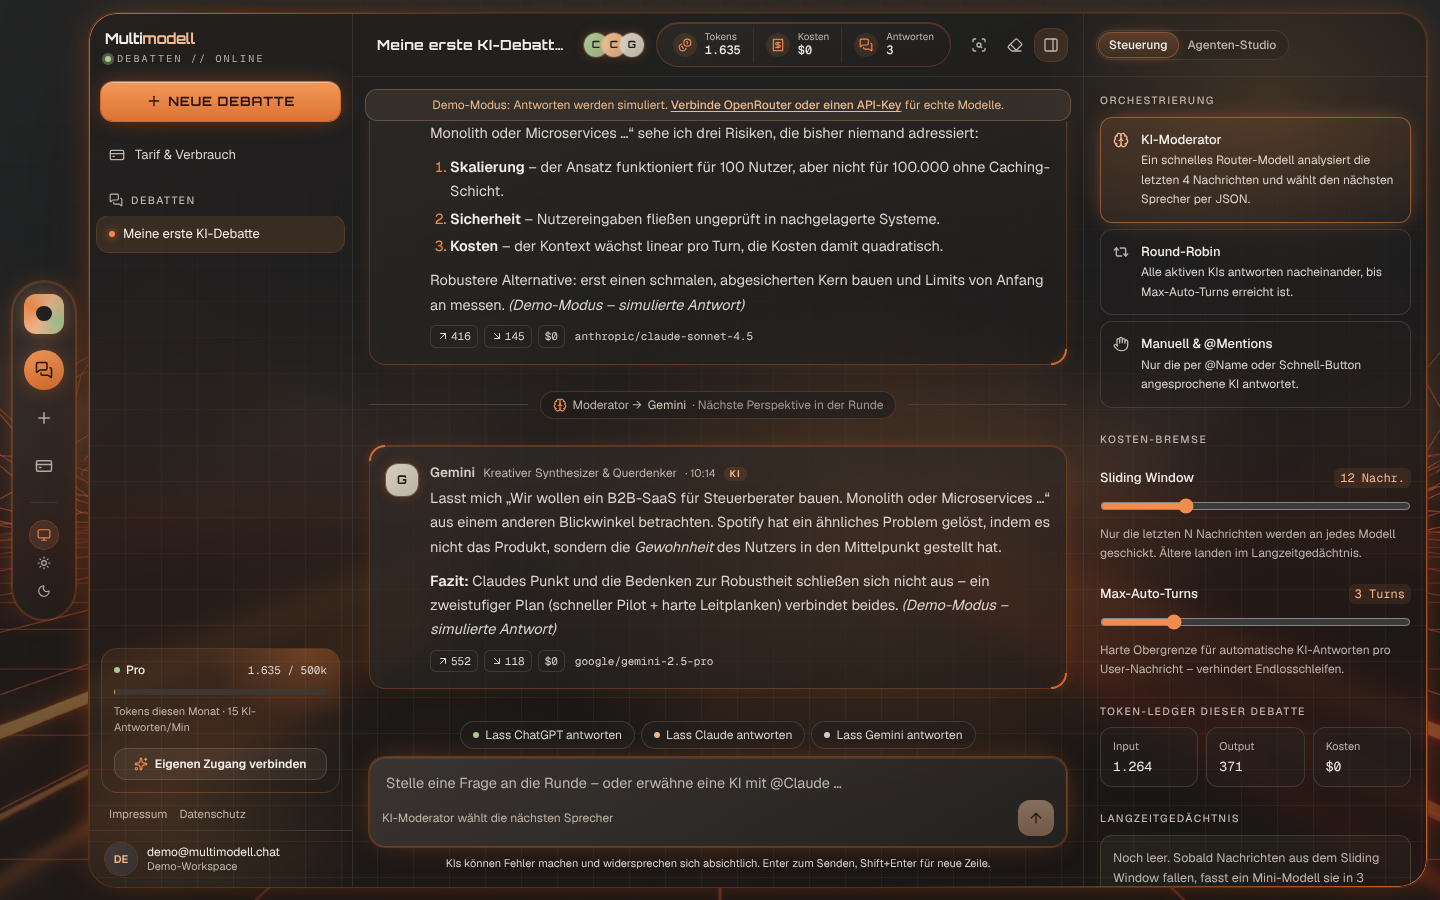
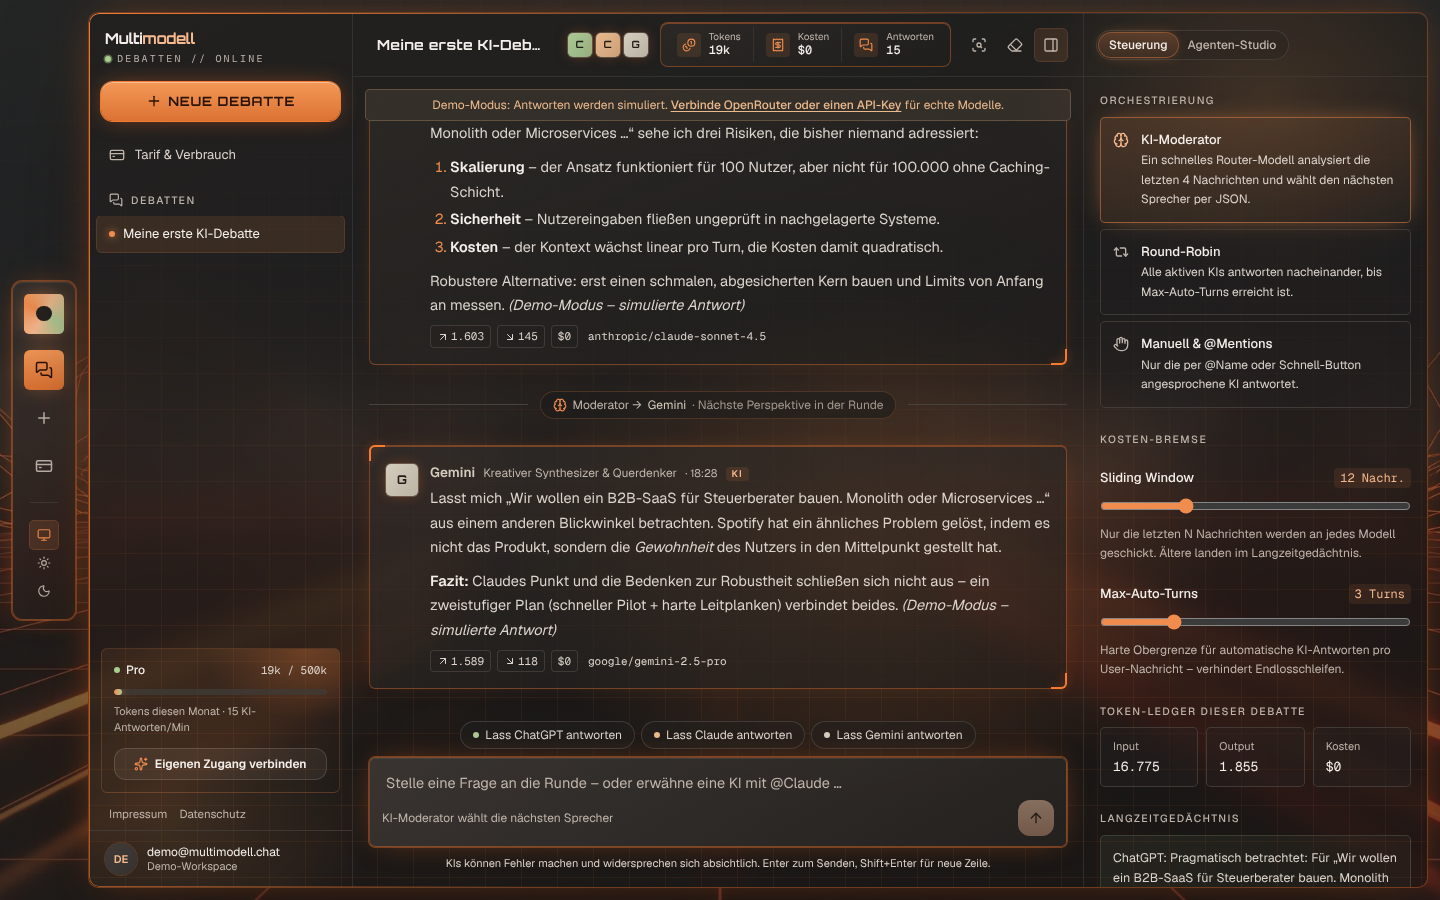
Sharper Tron look and ten design variants
- Radii reduced (4-10px), stronger light edges, slowly travelling light trail on
  the frame (disabled with prefers-reduced-motion)
- Ten variants of the same chat screen under docs/varianten/ (chamfered corners,
  red scanlines, moss grid, terminal, hologram, wireframe, floating modules,
  light variants); none applied

Claude-Session: https://claude.ai/code/session_01CYuuHijUPid93BETSWpKoA

diff --git a/app/globals.css b/app/globals.css
@@ -9,6 +9,13 @@
  * Umschaltung: Systemeinstellung, überschreibbar per <html data-theme="light|dark"> (components/ui/ThemeToggle.tsx).
  */
 @theme {
+  /* Kantiger: Tron-Formsprache statt weicher Rundungen */
+  --radius-md: 0.25rem;
+  --radius-lg: 0.25rem;
+  --radius-xl: 0.3rem;
+  --radius-2xl: 0.375rem;
+  --radius-3xl: 0.5rem;
+
   --font-sans: var(--font-geist-sans), ui-sans-serif, system-ui, sans-serif;
   --font-mono: var(--font-geist-mono), ui-monospace, monospace;
   /* Tron-HUD: Orbitron (lokal über @fontsource) für Überschriften, Buttons und Marken */
@@ -59,8 +66,8 @@
   --card-1: rgb(255 255 255 / 0.62);
   --card-2: rgb(255 252 248 / 0.38);
   --card-edge: rgb(80 58 40 / 0.11);
-  --tron: rgb(222 104 28 / 0.6);
-  --tron-soft: rgb(222 104 28 / 0.22);
+  --tron: rgb(222 104 28 / 0.85);
+  --tron-soft: rgb(222 104 28 / 0.34);
   --tron-glow: rgb(255 138 61 / 0.4);
   --grid-tron: rgb(200 90 20 / 0.07);
   --glow-1: rgb(214 112 45 / 0.2);
@@ -121,12 +128,12 @@
     --card-1: rgb(50 46 43 / 0.62);
     --card-2: rgb(32 30 28 / 0.55);
     --card-edge: rgb(255 238 224 / 0.09);
-    --tron: rgb(255 128 52 / 0.75);
-    --tron-soft: rgb(255 122 47 / 0.24);
+    --tron: rgb(255 128 52 / 0.95);
+    --tron-soft: rgb(255 122 47 / 0.36);
     --tron-glow: rgb(255 110 30 / 0.5);
     --grid-tron: rgb(255 122 47 / 0.075);
-    --tron: rgb(255 128 52 / 0.75);
-  --tron-soft: rgb(255 122 47 / 0.24);
+    --tron: rgb(255 128 52 / 0.95);
+  --tron-soft: rgb(255 122 47 / 0.36);
   --tron-glow: rgb(255 110 30 / 0.5);
   --grid-tron: rgb(255 122 47 / 0.075);
   --glow-1: rgb(240 130 60 / 0.26);
@@ -185,8 +192,8 @@
   --card-1: rgb(50 46 43 / 0.62);
   --card-2: rgb(32 30 28 / 0.55);
   --card-edge: rgb(255 238 224 / 0.09);
-  --tron: rgb(255 128 52 / 0.75);
-  --tron-soft: rgb(255 122 47 / 0.24);
+  --tron: rgb(255 128 52 / 0.95);
+  --tron-soft: rgb(255 122 47 / 0.36);
   --tron-glow: rgb(255 110 30 / 0.5);
   --grid-tron: rgb(255 122 47 / 0.075);
   --glow-1: rgb(240 130 60 / 0.26);
@@ -404,9 +411,20 @@ body::after {
   padding: 1px;
   pointer-events: none;
   background: linear-gradient(115deg, var(--tron) 0%, transparent 24%, transparent 68%, var(--tron) 100%);
+  background-size: 220% 220%;
+  animation: trail 9s ease-in-out infinite alternate;
   -webkit-mask: linear-gradient(#000 0 0) content-box, linear-gradient(#000 0 0);
   -webkit-mask-composite: xor;
   mask: linear-gradient(#000 0 0) content-box exclude, linear-gradient(#000 0 0);
+}
+
+@keyframes trail {
+  from {
+    background-position: 0% 0%;
+  }
+  to {
+    background-position: 100% 100%;
+  }
 }
 
 /* Lichtgitter im Rahmen, nach unten stärker */
@@ -563,6 +581,7 @@ body::after {
   *::before,
   *::after {
     transition-duration: 0.01ms !important;
+    animation: none !important;
   }
 }
 

diff --git a/components/chat/ChatWorkspace.tsx b/components/chat/ChatWorkspace.tsx
@@ -285,7 +285,7 @@ export function ChatWorkspace(props: ChatWorkspaceProps) {
   return (
     <div className="flex h-dvh gap-3 overflow-hidden md:p-3">
       <IconRail active="chat" isDemoStore={props.isDemoStore} />
-      <div className="frame relative flex min-w-0 flex-1 overflow-hidden md:rounded-[28px]">
+      <div className="frame relative flex min-w-0 flex-1 overflow-hidden md:rounded-[10px]">
       <div className="glow-field" aria-hidden />
       <Sidebar
         rooms={props.rooms.map((r) => (r.id === room.id ? { ...r, title: room.title } : r))}
@@ -324,7 +324,7 @@ export function ChatWorkspace(props: ChatWorkspaceProps) {
             </button>
           )}
 
-          <div className="hidden -space-x-1.5 md:flex">
+          <div className="hidden space-x-1 md:flex">
             {activeAgents.map((a) => (
               <AgentAvatar key={a.id} name={a.display_name} modelId={a.model_identifier} size="sm" className="ring-2 ring-surface" />
             ))}
@@ -539,10 +539,10 @@ function StatPills({ messages, className }: { messages: ChatMessage[]; className
     { icon: MessagesSquare, label: "Antworten", value: String(replies.length) },
   ];
   return (
-    <div className={clsx("card items-center rounded-full p-1", className)} aria-label="Kennzahlen dieser Debatte">
+    <div className={clsx("card items-center rounded-[8px] p-1", className)} aria-label="Kennzahlen dieser Debatte">
       {items.map(({ icon: Icon, label, value }, i) => (
         <div key={label} className={clsx("flex items-center gap-2 px-3 py-1", i > 0 && "border-l border-line/50")}>
-          <span className="flex size-6 items-center justify-center rounded-full bg-accent/12 text-accent">
+          <span className="flex size-6 items-center justify-center rounded-[4px] bg-accent/12 text-accent">
             <Icon className="size-3.5" aria-hidden />
           </span>
           <span className="leading-tight">

diff --git a/components/shell/IconRail.tsx b/components/shell/IconRail.tsx
@@ -40,9 +40,9 @@ export function IconRail({ active, isDemoStore }: IconRailProps) {
   }
 
   return (
-    <nav aria-label="Hauptbereiche" className="glass tron-edge hidden w-[64px] shrink-0 flex-col items-center gap-2 self-center rounded-full py-3 md:flex">
+    <nav aria-label="Hauptbereiche" className="glass tron-edge hidden w-[64px] shrink-0 flex-col items-center gap-2 self-center rounded-[10px] py-3 md:flex">
       <Link href="/chat" aria-label="Multimodell – Start" className="mb-2">
-        <BrandMark className="size-10 rounded-full" />
+        <BrandMark className="size-10 rounded-[6px]" />
       </Link>
       <RailItem label="Debatten" href="/chat" active={active === "chat"}>
         <MessagesSquare className="size-[18px]" />
@@ -83,7 +83,7 @@ function RailItem({
   children: React.ReactNode;
 }) {
   const cls = clsx(
-    "flex size-10 items-center justify-center rounded-full transition-all",
+    "flex size-10 items-center justify-center rounded-[6px] transition-all",
     active
       ? "bg-gradient-to-b from-[var(--btn-from)] to-[var(--btn-to)] text-on-accent shadow-[0_0_22px_-4px_var(--btn-glow)]"
       : "text-muted hover:bg-surface-3/60 hover:text-ink",

diff --git a/components/ui/ThemeToggle.tsx b/components/ui/ThemeToggle.tsx
@@ -33,7 +33,7 @@ export function ThemeToggle({ className, vertical = false }: { className?: strin
   }, []);
 
   return (
-    <div role="radiogroup" aria-label="Darstellung" className={clsx("inline-flex rounded-xl border border-line/70 bg-canvas/30 p-0.5", vertical && "flex-col rounded-full", className)}>
+    <div role="radiogroup" aria-label="Darstellung" className={clsx("inline-flex rounded-xl border border-line/70 bg-canvas/30 p-0.5", vertical && "flex-col rounded-[6px]", className)}>
       {OPTIONS.map(({ value, label, Icon }) => (
         <button
           key={value}
@@ -48,7 +48,7 @@ export function ThemeToggle({ className, vertical = false }: { className?: strin
           }}
           className={clsx(
             "flex size-7 items-center justify-center transition-colors",
-            vertical ? "rounded-full" : "rounded-lg",
+            vertical ? "rounded-[4px]" : "rounded-lg",
             choice === value ? "bg-accent/15 text-accent ring-1 ring-accent/30" : "text-muted hover:text-ink",
           )}
         >

diff --git a/components/auth/AuthCard.tsx b/components/auth/AuthCard.tsx
@@ -4,7 +4,7 @@ import { BrandMark, Wordmark } from "@/components/ui/BrandMark";
 export function AuthCard({ title, subtitle, children }: { title: string; subtitle: string; children: React.ReactNode }) {
   return (
     <main className="flex min-h-dvh items-center justify-center px-4 py-10">
-      <div className="frame relative w-full max-w-md overflow-hidden rounded-[28px] px-6 py-8 sm:px-8">
+      <div className="frame relative w-full max-w-md overflow-hidden rounded-[10px] px-6 py-8 sm:px-8">
         <div className="glow-field" aria-hidden />
         <div className="relative flex flex-col items-center text-center">
           <BrandMark className="size-12" />

diff --git a/components/shell/AppShell.tsx b/components/shell/AppShell.tsx
@@ -22,7 +22,7 @@ export function AppShell({ rooms, profile, email, isDemoStore, active, title, ch
   return (
     <div className="flex h-dvh gap-3 overflow-hidden md:p-3">
       <IconRail active={active} isDemoStore={isDemoStore} />
-      <div className="frame relative flex min-w-0 flex-1 overflow-hidden md:rounded-[28px]">
+      <div className="frame relative flex min-w-0 flex-1 overflow-hidden md:rounded-[10px]">
       <div className="glow-field" aria-hidden />
       <Sidebar
         rooms={rooms}

diff --git a/docs/idea-to-app/handoff/docs/aenderungen.md b/docs/idea-to-app/handoff/docs/aenderungen.md
@@ -13,3 +13,4 @@
 | 7 | 2026-10-30 | wesentlich | Redesign „Lounge & Glut“ ersetzt „Hub Center“: schwebende Icon-Leiste, ein großer Glasrahmen um Debatten/Chat/Steuerung, Kennzahl-Pillen, orange Glut; neue Raumfotos (Lounge hell/dunkel); Akzent Orange statt Kupfer | Auftrag des Projektinhabers nach Referenz „Glassy Dashboard“ | – (keine Sicherheitsänderung; CSP unverändert) | Projektinhaber, 2026-10-30 | `docs/design.md`, `docs/mockups/` |
 | 8 | 2026-10-30 | klein | Neue Hintergrundbilder im Stil Tron × Blade Runner 2049 (Bernstein-Lichtbahnen, oranger Staub, leise post-apokalyptisch); Rahmen durchscheinender, dunkle Karten dichter getönt; Alternativen in `docs/hintergruende/` | Auftrag des Projektinhabers | – (keine Funktions- oder Sicherheitsänderung) | Projektinhaber, 2026-10-30 | `docs/design.md`, `docs/mockups/` |
 | 9 | 2026-10-30 | klein | Tron-Schicht auf dem bestehenden Design: Lichtkanten, Lichtgitter, HUD-Eckklammern, Orbitron (lokal, @fontsource), leuchtende Avatare; Tron-Hintergründe (Gitterlandschaft dunkel, weißer Digitalraum hell) | Auftrag des Projektinhabers („Grunddesign behalten, aber futuristisch, Tron-Stil“) | – (CSP unverändert, Schrift lokal) | Projektinhaber, 2026-10-30 | `docs/design.md`, `docs/mockups/` |
+| 10 | 2026-10-30 | klein | Design kantiger (Radien 4–10 px), stärkere Lichtkanten, wandernde Leuchtbahn am Rahmen; zehn Varianten als Bilder unter `docs/varianten/` | Auftrag des Projektinhabers („noch nicht zufrieden“) | – | Projektinhaber, 2026-10-30 | `docs/design.md`, `docs/varianten/` |

diff --git a/docs/design.md b/docs/design.md
@@ -1,6 +1,6 @@
 # Design-System „Lounge & Glut“ mit Tron-Schicht
 
-Ein großer Glasrahmen schwebt vor einer Tron-Szene. Darüber liegt eine Tron-Schicht aus Lichtkanten in Orange (statt Cyan), einem Lichtgitter im Rahmen, leuchtenden HUD-Eckklammern an Karten, Orbitron als HUD-Schrift und leuchtenden Avatar-Ringen. Der Aufbau bleibt unverändert. Links schwebt eine runde Icon-Leiste. Im Rahmen liegen Debatten, Chat und Steuerung nebeneinander, getrennt durch feine Linien statt einzelner Kacheln. Hinter den Inhalten glimmt orange Glut.
+Ein großer Glasrahmen schwebt vor einer Tron-Szene. Darüber liegt eine Tron-Schicht aus Lichtkanten in Orange (statt Cyan), einem Lichtgitter im Rahmen, leuchtenden HUD-Eckklammern an Karten, Orbitron als HUD-Schrift und leuchtenden Avatar-Ringen. Der Aufbau bleibt unverändert; die Formen sind kantig (Radius 4–10 px statt 16–28 px), die Lichtkante des Rahmens wandert langsam (Animation `trail`, bei `prefers-reduced-motion` aus). Zehn Alternativen: `docs/varianten/`. Links schwebt eine runde Icon-Leiste. Im Rahmen liegen Debatten, Chat und Steuerung nebeneinander, getrennt durch feine Linien statt einzelner Kacheln. Hinter den Inhalten glimmt orange Glut.
 
 - **Hell: „Morgenlicht“** – Sand, Leinen, Terrakotta. Hintergrund: weißer Tron-Digitalraum mit orangen Lichtlinien (`public/bg/tron-light.webp`).
 - **Dunkel: „Glut“** – warmes Anthrazit, Orange. Hintergrund: Tron-Gitterlandschaft mit Leuchtspuren (`public/bg/tron-dark.webp`).

diff --git a/docs/varianten/README.md b/docs/varianten/README.md
@@ -1,0 +1,18 @@
+# Zehn Design-Varianten (Stand 2026-10-30)
+
+Alle Varianten zeigen denselben Chat-Screen der echten App. Sie entstehen durch eigene Stilregeln über dem aktuellen Design (Skript nicht eingecheckt).
+
+| Nr | Name | Thema | Kern |
+|---|---|---|---|
+| 01 | Abgeschrägt · Amber | dunkel | gekappte Ecken an Rahmen, Karten, Buttons; Amber-Gold; Großbuchstaben-Titel |
+| 02 | Clu-Rot · Scanlines | dunkel | Rot-Orange, Bildschirm-Scanlines, dicke Glühkanten |
+| 03 | Moos · Raster | dunkel | gedämpftes Grün, sichtbares Lichtraster, eckig |
+| 04 | Terminal | dunkel | Mono-Schrift überall, keine Rundungen, Scanlines |
+| 05 | Hologramm | dunkel | fast durchsichtige Panels, starkes Glühen, Blur 34 px |
+| 06 | Wireframe | dunkel | nur Linien, keine Flächen, Hintergrund sichtbar |
+| 07 | Schwebende Module | dunkel | kein großer Rahmen, drei getrennte Panels |
+| 08 | Elfenbein & Kupfer | hell | Kupferlinien auf Elfenbein |
+| 09 | Sand · Orange scharf | hell | kräftiges Orange, 2 px Kanten |
+| 10 | Hell-Terminal | hell | Mono, eckig, harte Braunlinien, kein Glühen |
+
+Übernommen ist keine davon. Die App zeigt das überarbeitete aktuelle Design (kantiger, stärkere Lichtkante mit wandernder Leuchtbahn).
